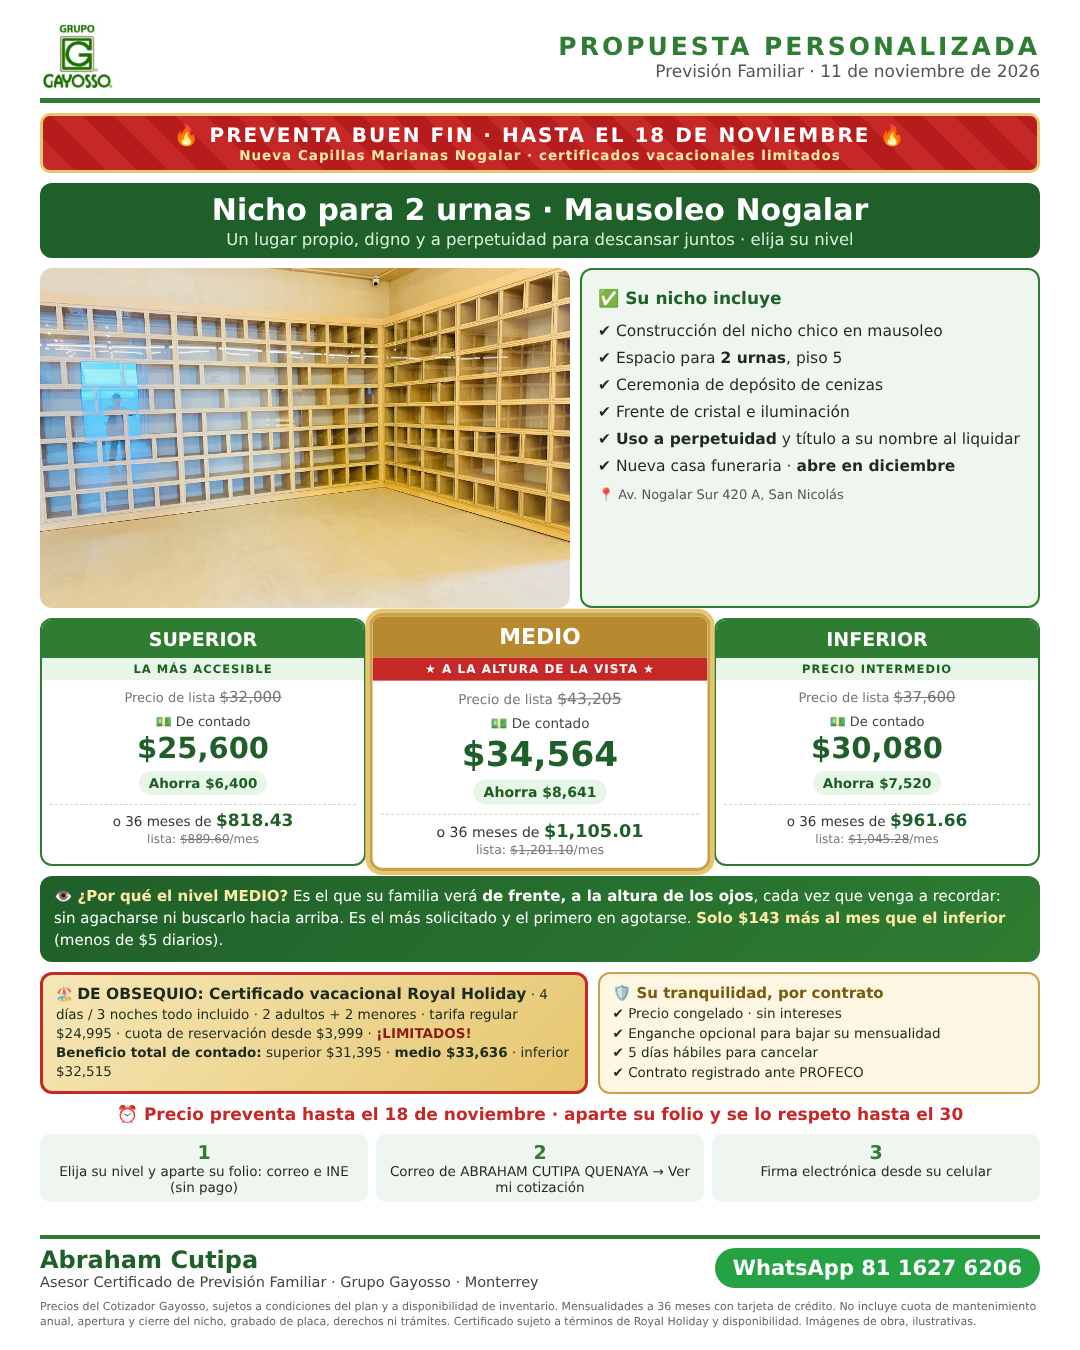
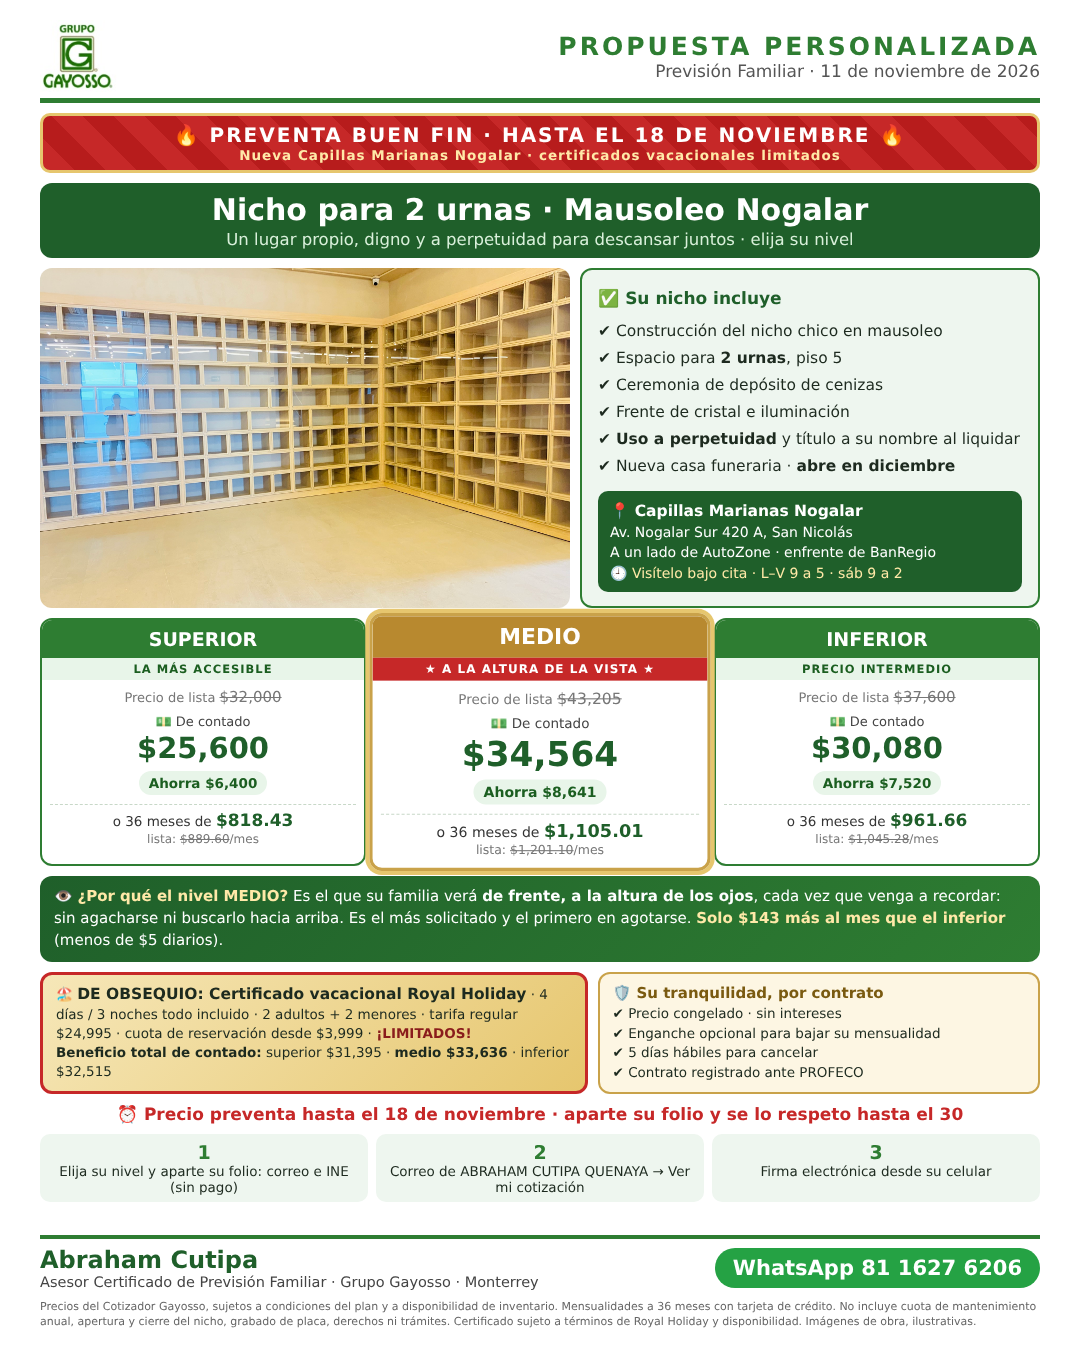
Nicho solo Nogalar 3 niveles: ubicación con referencias y horario de citas
Claude-Session: https://claude.ai/code/session_01PccRGVGwaaPKDitcWkgoNs

Changed region(s): [[0.55, 0.3422, 0.9472, 0.4356]]

diff --git a/propuesta/nicho_solo_nogalar_3niveles.html b/propuesta/nicho_solo_nogalar_3niveles.html
@@ -31,7 +31,7 @@
 <div class="band"><div class="t">Nicho para 2 urnas · Mausoleo Nogalar</div><div class="s">Un lugar propio, digno y a perpetuidad para descansar juntos · elija su nivel</div></div>
 <div class="hero">
  <div class="ph"><img src="nogalar_nichos3.jpg"></div>
- <div class="inc"><h3>✅ Su nicho incluye</h3>✔ Construcción del nicho chico en mausoleo<br>✔ Espacio para <b>2 urnas</b>, piso 5<br>✔ Ceremonia de depósito de cenizas<br>✔ Frente de cristal e iluminación<br>✔ <b>Uso a perpetuidad</b> y título a su nombre al liquidar<br>✔ Nueva casa funeraria · <b>abre en diciembre</b><br><span style="color:#555;font-size:13px">📍 Av. Nogalar Sur 420 A, San Nicolás</span></div>
+ <div class="inc"><h3>✅ Su nicho incluye</h3>✔ Construcción del nicho chico en mausoleo<br>✔ Espacio para <b>2 urnas</b>, piso 5<br>✔ Ceremonia de depósito de cenizas<br>✔ Frente de cristal e iluminación<br>✔ <b>Uso a perpetuidad</b> y título a su nombre al liquidar<br>✔ Nueva casa funeraria · <b>abre en diciembre</b><br><div style="margin-top:10px;background:#1f5f2a;color:#fff;border-radius:10px;padding:9px 12px;font-size:14px;line-height:1.45"><b style="font-size:15.5px">📍 Capillas Marianas Nogalar</b><br>Av. Nogalar Sur 420 A, San Nicolás<br>A un lado de AutoZone · enfrente de BanRegio<br><span style="color:#ffe9a8">🕘 Visítelo bajo cita · L–V 9 a 5 · sáb 9 a 2</span></div></div>
 </div>
 <div class="cards">
  <div class="c"><div class="h">SUPERIOR</div><div class="tag">LA MÁS ACCESIBLE</div><div class="b">
